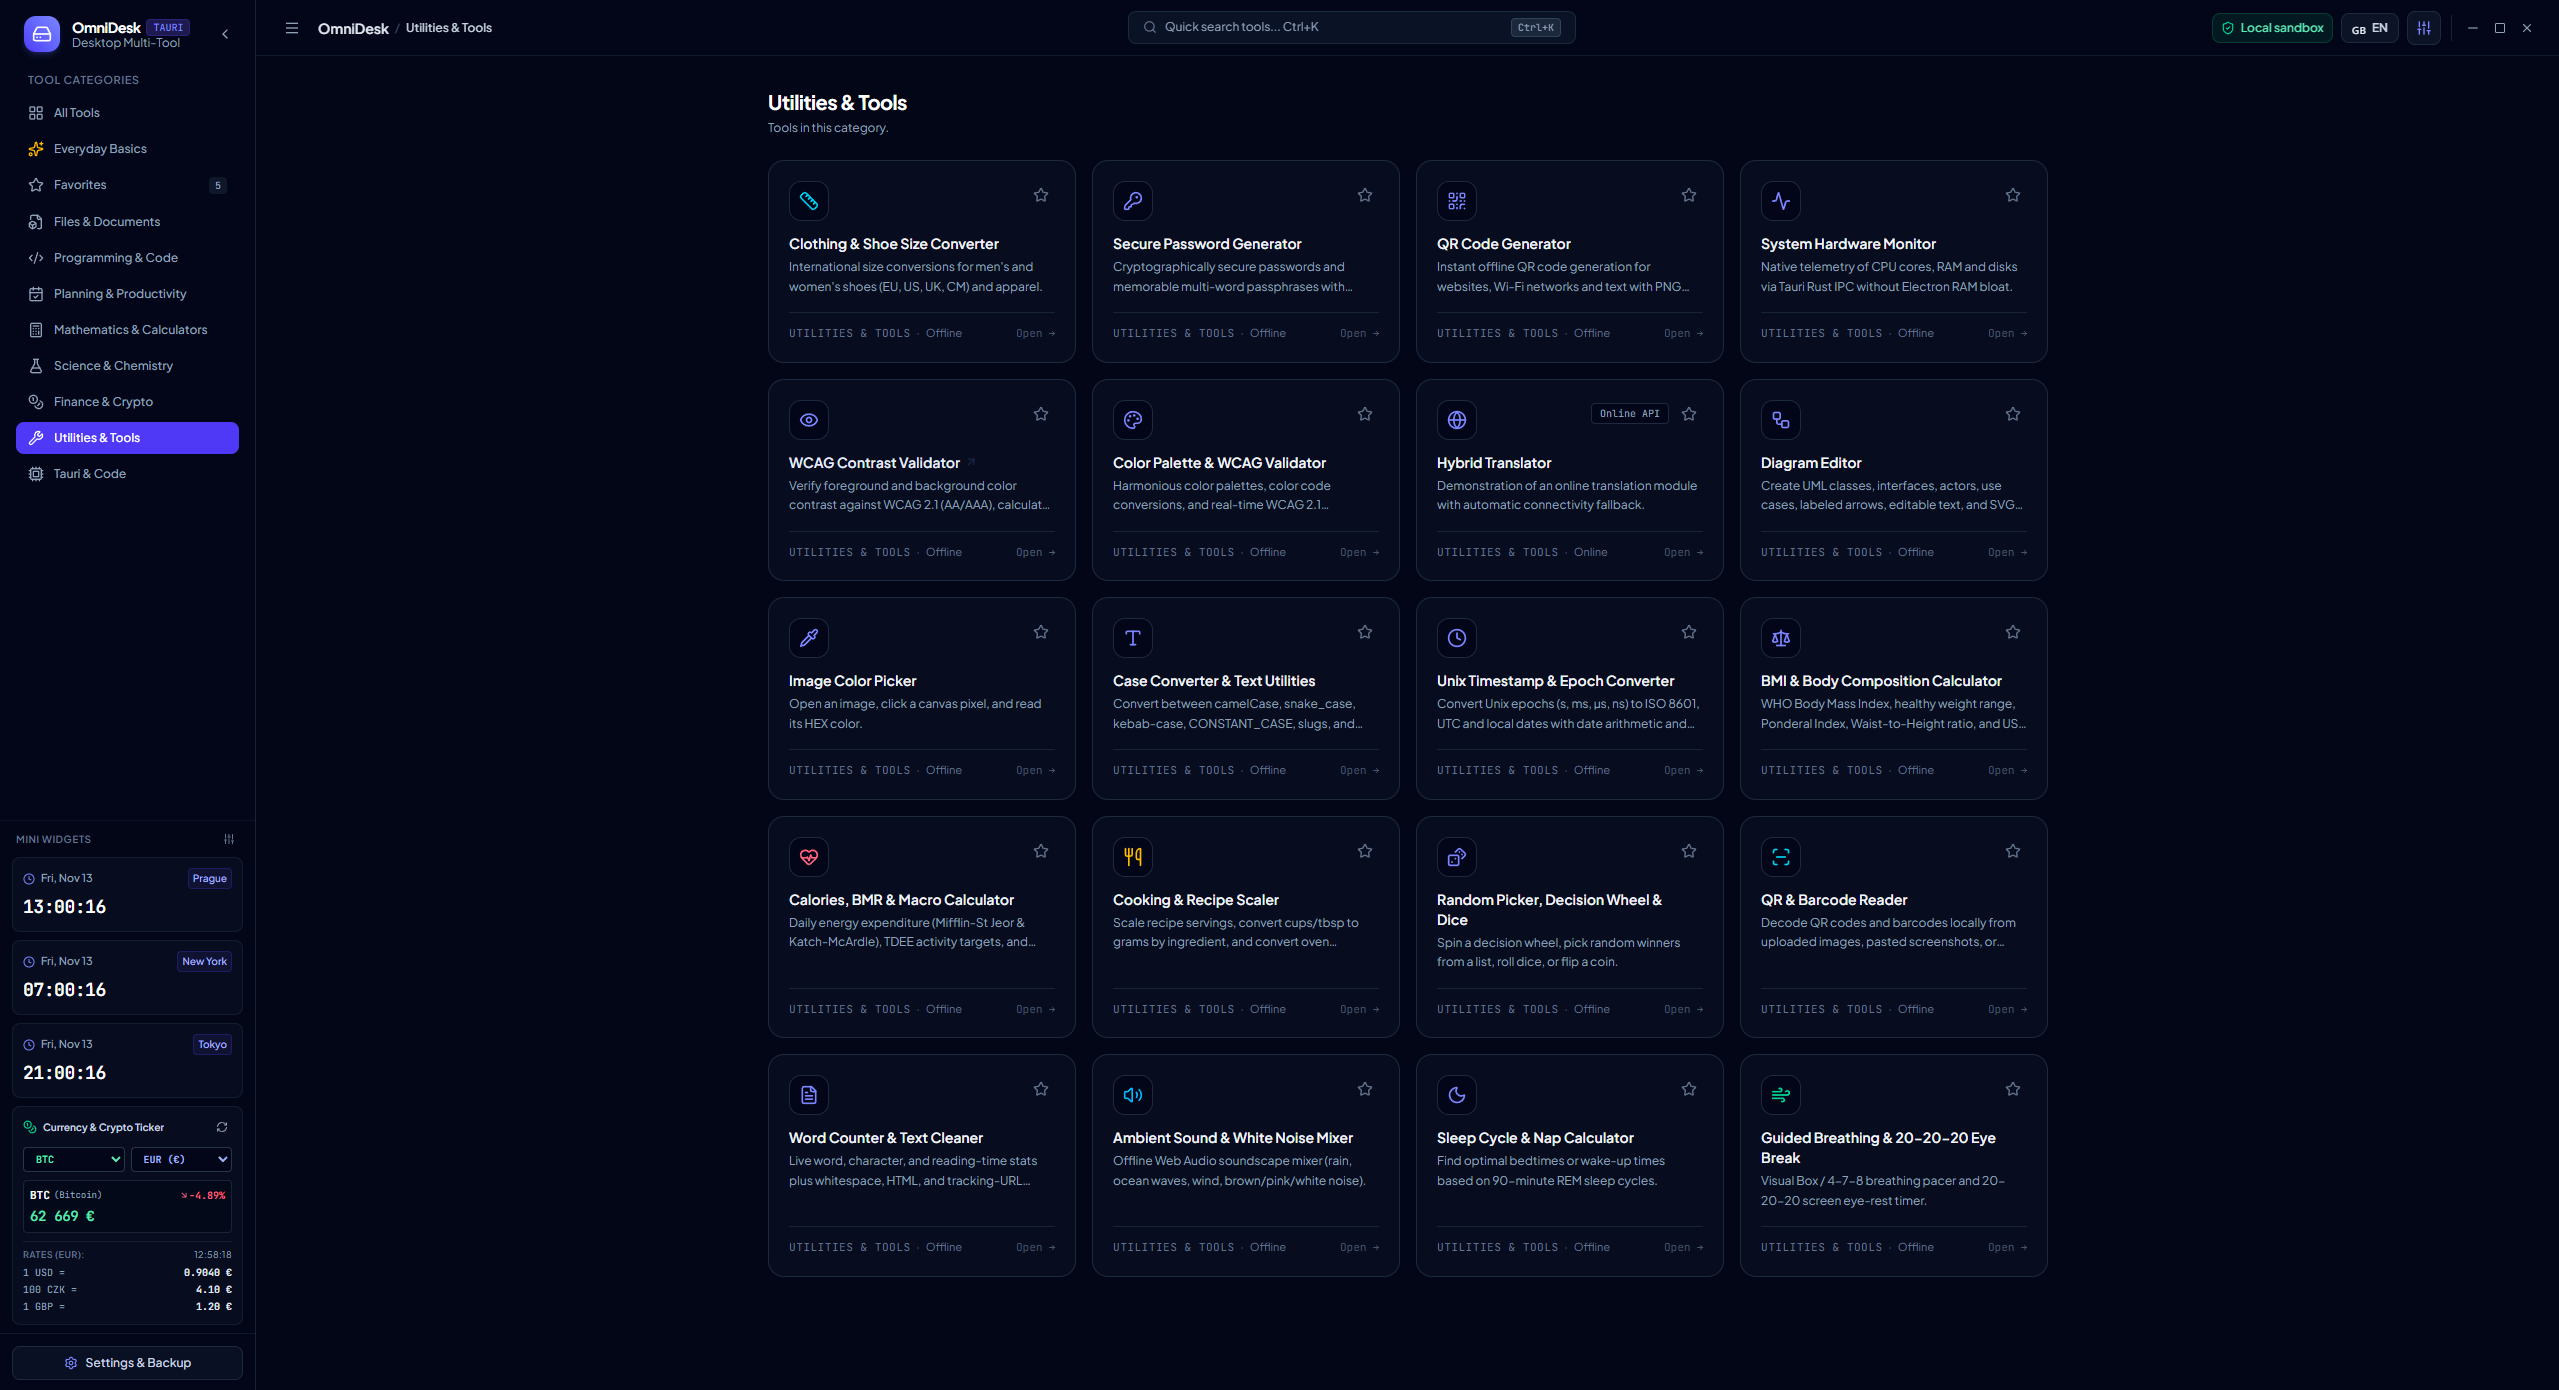
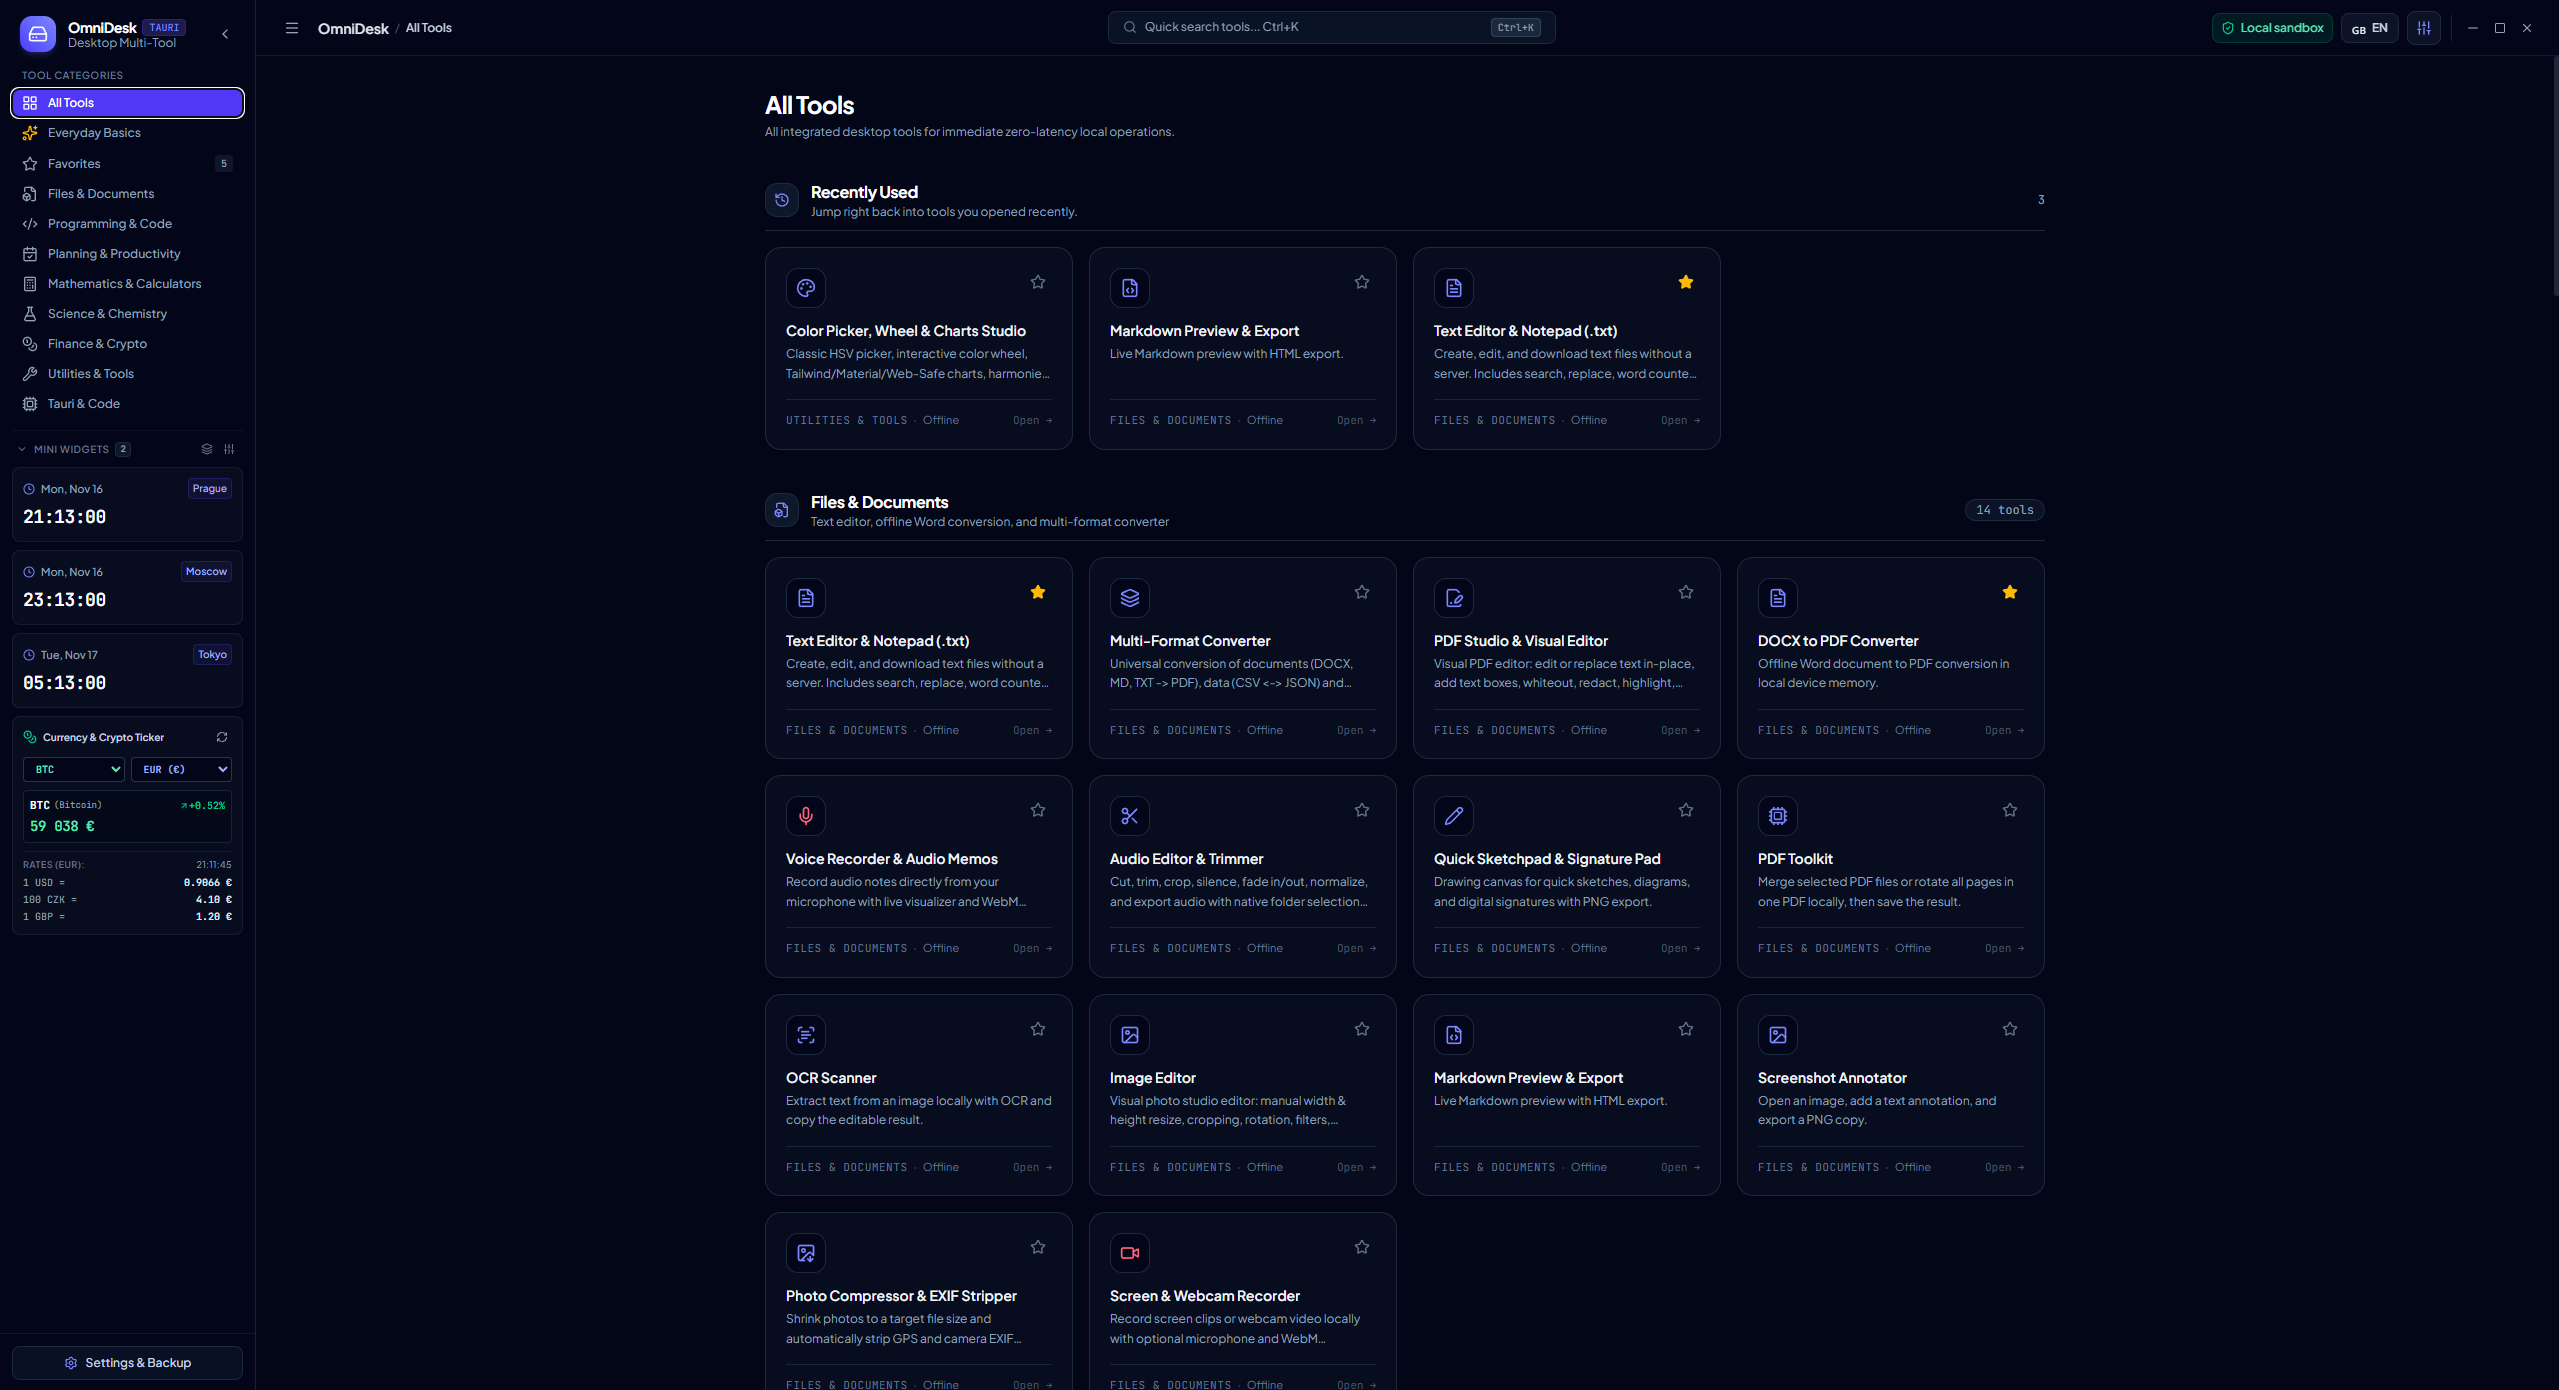
feat: replace Random Picker with Color Picker
Update README and assets to reflect the new Color Picker, Wheel, and Charts Studio module, replacing the Random Picker tool.

diff --git a/src/i18n/context.tsx b/src/i18n/context.tsx
@@ -1,11 +1,5 @@
-import React, { createContext, useContext, useState } from 'react';
-import cs from '../locales/cs.json';
+import React, { createContext, useCallback, useContext, useEffect, useRef, useState } from 'react';
 import en from '../locales/en.json';
-import de from '../locales/de.json';
-import es from '../locales/es.json';
-import ru from '../locales/ru.json';
-
-import { autoTranslate } from './autoTranslate';
 
 export type SupportedLanguage = 'cs' | 'en' | 'de' | 'es' | 'ru';
 
@@ -23,13 +17,16 @@ export const SUPPORTED_LANGUAGES: LanguageInfo[] = [
   { code: 'ru', name: 'Русский', flag: '🇷🇺' },
 ];
 
-const LOCALES: Record<SupportedLanguage, Record<string, string>> = {
-  cs: cs as Record<string, string>,
-  en: en as Record<string, string>,
-  de: de as Record<string, string>,
-  es: es as Record<string, string>,
-  ru: ru as Record<string, string>,
+type LocaleDict = Record<string, string>;
+
+const LOCALE_LOADERS: Record<Exclude<SupportedLanguage, 'en'>, () => Promise<{ default: LocaleDict }>> = {
+  cs: () => import('../locales/cs.json'),
+  de: () => import('../locales/de.json'),
+  es: () => import('../locales/es.json'),
+  ru: () => import('../locales/ru.json'),
 };
+
+const EN_DICT = en as LocaleDict;
 
 interface I18nContextType {
   language: SupportedLanguage;
@@ -45,67 +42,114 @@ const I18nContext = createContext<I18nContextType>({
   t: (key, fallback) => fallback || key,
 });
 
-export const I18nProvider: React.FC<{ children: React.ReactNode }> = ({ children }) => {
-  const [language, setLanguageState] = useState<SupportedLanguage>(() => {
-    try {
-      const saved = localStorage.getItem('omnidesk_language') as SupportedLanguage;
-      if (saved && ['cs', 'en', 'de', 'es', 'ru'].includes(saved)) {
-        return saved;
-      }
-    } catch {
-      // ignore
+function readSavedLanguage(): SupportedLanguage {
+  try {
+    const saved = localStorage.getItem('omnidesk_language') as SupportedLanguage;
+    if (saved && ['cs', 'en', 'de', 'es', 'ru'].includes(saved)) {
+      return saved;
     }
-    return 'en';
-  });
+  } catch {
+    // ignore
+  }
+  return 'en';
+}
 
-  const setLanguage = (lang: SupportedLanguage) => {
+export const I18nProvider: React.FC<{ children: React.ReactNode }> = ({ children }) => {
+  const [language, setLanguageState] = useState<SupportedLanguage>(readSavedLanguage);
+  const [activeDict, setActiveDict] = useState<{ lang: SupportedLanguage; dict: LocaleDict }>({
+    lang: 'en',
+    dict: EN_DICT,
+  });
+  const autoTranslateRef = useRef<((text: string, targetLang: SupportedLanguage) => string) | null>(null);
+  const autoTranslateLoadingRef = useRef(false);
+  const [, setAutoTranslateVersion] = useState(0);
+
+  useEffect(() => {
+    if (language === 'en') {
+      setActiveDict({ lang: 'en', dict: EN_DICT });
+      return;
+    }
+
+    let cancelled = false;
+    LOCALE_LOADERS[language]()
+      .then(mod => {
+        if (!cancelled) {
+          setActiveDict({ lang: language, dict: mod.default });
+        }
+      })
+      .catch(() => {
+        if (!cancelled) {
+          setActiveDict({ lang: 'en', dict: EN_DICT });
+        }
+      });
+
+    return () => {
+      cancelled = true;
+    };
+  }, [language]);
+
+  const setLanguage = useCallback((lang: SupportedLanguage) => {
     setLanguageState(lang);
     try {
       localStorage.setItem('omnidesk_language', lang);
     } catch {
       // ignore
     }
-  };
+  }, []);
 
-  const t = (key: string, fallback?: string, params?: Record<string, string | number>): string => {
-    const langDict = LOCALES[language];
-    let template = langDict && langDict[key];
+  const ensureAutoTranslate = useCallback(() => {
+    if (autoTranslateRef.current || autoTranslateLoadingRef.current) return;
+    autoTranslateLoadingRef.current = true;
+    import('./autoTranslate')
+      .then(mod => {
+        autoTranslateRef.current = mod.autoTranslate;
+        setAutoTranslateVersion(v => v + 1);
+      })
+      .catch(() => {
+        autoTranslateLoadingRef.current = false;
+      });
+  }, []);
 
-    // If key not in target dictionary and language is not Czech, auto-translate!
-    if (!template) {
-      if (language !== 'cs') {
-        const sourceText = fallback || (LOCALES.cs && LOCALES.cs[key]) || key;
-        const autoTranslated = autoTranslate(sourceText, language);
-        if (autoTranslated && autoTranslated !== sourceText) {
-          template = autoTranslated;
+  const t = useCallback(
+    (key: string, fallback?: string, params?: Record<string, string | number>): string => {
+      const langDict = activeDict.lang === language ? activeDict.dict : undefined;
+      let template = langDict && langDict[key];
+
+      if (!template && language !== 'en') {
+        template = EN_DICT[key];
+      }
+
+      if (!template) {
+        if (language !== 'cs' && language !== 'en') {
+          const sourceText = fallback || EN_DICT[key] || key;
+          if (autoTranslateRef.current) {
+            const autoTranslated = autoTranslateRef.current(sourceText, language);
+            if (autoTranslated && autoTranslated !== sourceText) {
+              template = autoTranslated;
+            }
+          } else {
+            ensureAutoTranslate();
+          }
         }
       }
-    }
 
-    if (!template) {
-      const enDict = LOCALES.en;
-      template = enDict && enDict[key];
-    }
-    if (!template) {
-      const csDict = LOCALES.cs;
-      template = csDict && csDict[key];
-    }
-    if (!template) {
-      template = fallback || key;
-      // Last chance auto-translate if fallback was plain Czech
-      if (language !== 'cs') {
-        template = autoTranslate(template, language);
+      if (!template) {
+        template = fallback || key;
+        if (language !== 'cs' && language !== 'en' && autoTranslateRef.current) {
+          template = autoTranslateRef.current(template, language);
+        }
       }
-    }
 
-    if (params) {
-      for (const [pKey, pVal] of Object.entries(params)) {
-        template = template.replace(new RegExp(`\\{${pKey}\\}`, 'g'), String(pVal));
+      if (params) {
+        for (const [pKey, pVal] of Object.entries(params)) {
+          template = template.replace(new RegExp(`\\{${pKey}\\}`, 'g'), String(pVal));
+        }
       }
-    }
 
-    return template;
-  };
+      return template;
+    },
+    [activeDict, ensureAutoTranslate, language]
+  );
 
   return (
     <I18nContext.Provider value={{ language, currentLanguage: language, setLanguage, t }}>

diff --git a/vite.config.ts b/vite.config.ts
@@ -63,6 +63,7 @@ export default defineConfig(() => {
         },
         workbox: {
           globPatterns: ['**/*.{js,css,html,ico,png,svg,woff,woff2}'],
+          globIgnores: ['assets/aistudio/**'],
           maximumFileSizeToCacheInBytes: 6 * 1024 * 1024,
           runtimeCaching: [
             {

diff --git a/src-tauri/src/lib.rs b/src-tauri/src/lib.rs
@@ -62,7 +62,11 @@ pub fn run() {
         .plugin(tauri_plugin_dialog::init())
         .plugin(tauri_plugin_fs::init())
         .plugin(tauri_plugin_os::init())
-        .manage(Mutex::new(System::new_all()))
+        .manage(Mutex::new(System::new_with_specifics(
+            RefreshKind::new()
+                .with_cpu(CpuRefreshKind::everything())
+                .with_memory(MemoryRefreshKind::everything()),
+        )))
         .invoke_handler(tauri::generate_handler![get_system_telemetry])
         .setup(|app| {
             if cfg!(debug_assertions) {

diff --git a/README.md b/README.md
@@ -131,12 +131,12 @@
       <sub>Simultaneous MD5, SHA-1, SHA-2, SHA-3, Keccak, CRC-32, Adler-32 &amp; keyed HMAC verification for text and files.</sub>
     </td>
     <td width="50%" align="center">
-      <a href="docs/screenshots/random-picker.png">
-        <img src="docs/screenshots/random-picker.png" alt="Random Picker, Decision Wheel & Dice" />
+      <a href="docs/screenshots/color-picker.png">
+        <img src="docs/screenshots/color-picker.png" alt="Color Picker, Wheel &amp; Charts Studio" />
       </a>
       <br />
-      <strong>🎲 Random Picker, Decision Wheel &amp; Dice</strong><br />
-      <sub>Animated SVG decision wheel with winner removal, multi-dice roller (d4–d100) &amp; coin flip tracker.</sub>
+      <strong>🎨 Color Picker, Wheel &amp; Charts Studio</strong><br />
+      <sub>Classic HSV picker, interactive color wheel, Tailwind/Material/Web-Safe charts, 7 harmony schemes &amp; live RGB ↔ Hex converter.</sub>
     </td>
   </tr>
   <tr>
